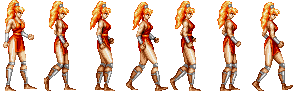
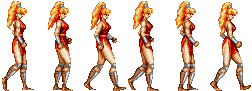
Began adding different SFT formats.

diff --git a/TestSupportLib/TestSupportLib/TestImageSFTWriter.cpp b/TestSupportLib/TestSupportLib/TestImageSFTWriter.cpp
@@ -1,0 +1,49 @@
+#include "SupportLib/Image.h"
+#include "BaseLib/FastFunctions.h"
+#include "BaseLib/TypeConverter.h"
+#include "BaseLib/GlobalDataTypesIO.h"
+#include "StandardLib/Objects.h"
+#include "SupportLib/ImageReader.h"
+#include "SupportLib/ImageWriter.h"
+#include "TestLib/Assert.h"
+
+//////////////////////////////////////////////////////////////////////////
+//
+//
+//////////////////////////////////////////////////////////////////////////
+void TestImageSFTWriter1(void)
+{
+	bool bResult;
+
+	Ptr<CImage> pcImage = ReadImage("Input\\MakiStand.png", IT_Unknown, true);
+	AssertTrue(pcImage.IsNotNull());
+
+	bResult = WriteImage(pcImage, "Output\\MakiStand.sft");
+	AssertTrue(bResult);
+
+	pcImage->Kill();
+
+}
+
+
+//////////////////////////////////////////////////////////////////////////
+//
+//
+//////////////////////////////////////////////////////////////////////////
+void TestImageSFTWriter(void)
+{
+	BeginTests();
+
+	DataIOInit();
+	ObjectsInit();
+	ImageChannelDescriptorInit();
+
+	TestImageSFTWriter1();
+
+	ImageChannelDescriptorKill();
+	ObjectsKill();
+	DataIOKill();
+
+	TestStatistics();
+}
+

diff --git a/TestSupportLib/TestSupportLib/TestImageWriter.cpp b/TestSupportLib/TestSupportLib/TestImageWriter.cpp
@@ -147,39 +147,17 @@ void TestImageRADWriter(void)
 //
 //
 //////////////////////////////////////////////////////////////////////////
-void TestImageSFTWriter(void)
-{
-	bool bResult;
-
-	Ptr<CImage> pcImage = ReadImage("Input\\MakiWalk.png", IT_Unknown, true);
-	AssertTrue(pcImage.IsNotNull());
-
-	bResult = WriteImage(pcImage, "Output\\MakiWalk.sft");
-	AssertTrue(bResult);
-
-	pcImage->Kill();
-
-}
-
-
-//////////////////////////////////////////////////////////////////////////
-//
-//
-//////////////////////////////////////////////////////////////////////////
 void TestImageWriter(void)
 {
 	BeginTests();
 
 	DataIOInit();
 	ObjectsInit();
-	ImageChannelDescriptorInit();
 
 	TestImagePNGWriter();
 	TestImageTGAWriter();
 	TestImageRADWriter();
-	TestImageSFTWriter();
 
-	ImageChannelDescriptorKill();
 	ObjectsKill();
 	DataIOKill();
 

diff --git a/TestSupportLib/TestSupportLib/TestSupportLib.cpp b/TestSupportLib/TestSupportLib/TestSupportLib.cpp
@@ -42,6 +42,7 @@ void TestImageSwizzle(void);
 void TestRectangleBestPacker(void);
 void TestRectanglePow2Packer(void);
 void TestImageToR3G3B2A(void);
+void TestImageSFTWriter(void);
 
 
 int __cdecl main(void)
@@ -77,6 +78,7 @@ int __cdecl main(void)
 	TestImageSwizzle();
 	TestImageCombiner();
 	TestImageToR3G3B2A();
+	TestImageSFTWriter();
 	TestWinText();
 	TestImageCelsSource();
 	TestHalfSpace();
